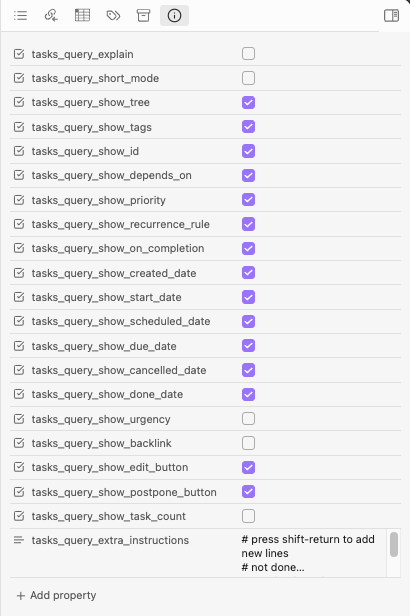
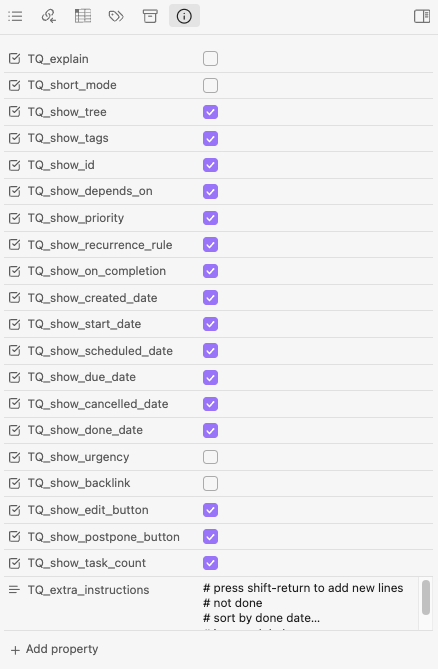
docs: Update docs for tasks_query_* -> TQ_*

diff --git a/docs/Queries/Query File Defaults.md b/docs/Queries/Query File Defaults.md
@@ -50,7 +50,7 @@ You can make them wider with the following CSS Snippet.
 ```css
 /* Make property labels wider, to fit the names of Tasks-specific properties */
 .metadata-content {
-    --metadata-label-width: 18em;
+    --metadata-label-width: 14em;
 }
 ```
 <!-- endSnippet -->
